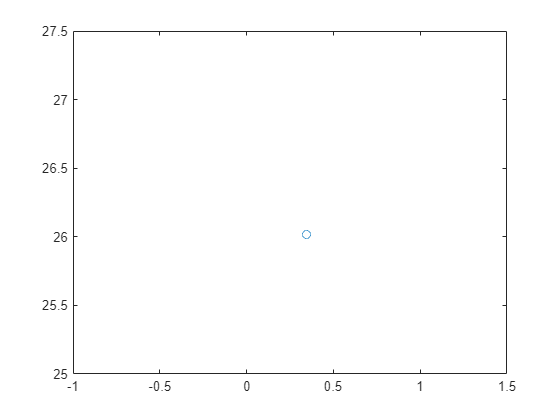
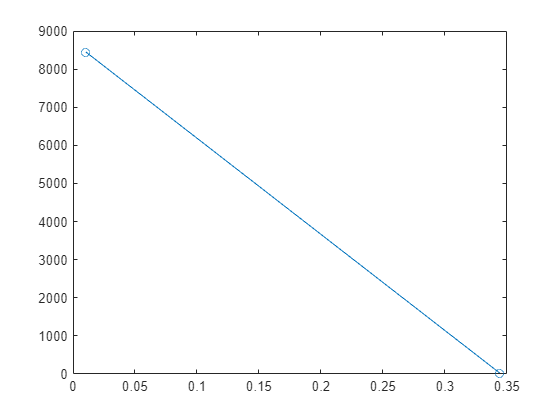
generated

diff --git a/report.md b/report.md
@@ -18,6 +18,7 @@ solvers
 | |t|result|computeTime|score|author|commit|
 |:--:|:--:|:--:|:--:|:--:|:--:|:--:|
 |1|06-May-2024 21:52:36|26.0168|0.3441|164.4961|'gulley'|'c51b2fcf7b51ebe382d55723d14c15474980b116'|
+|2|06-May-2024 21:58:25|8.4475e+03|0.0104|4.2238e+04|'gulley'|'0b53da950386771ea06a279705761aca016bc1c5'|
 
 ```matlab
 plot(solvers.computeTime,solvers.result,"-o")
